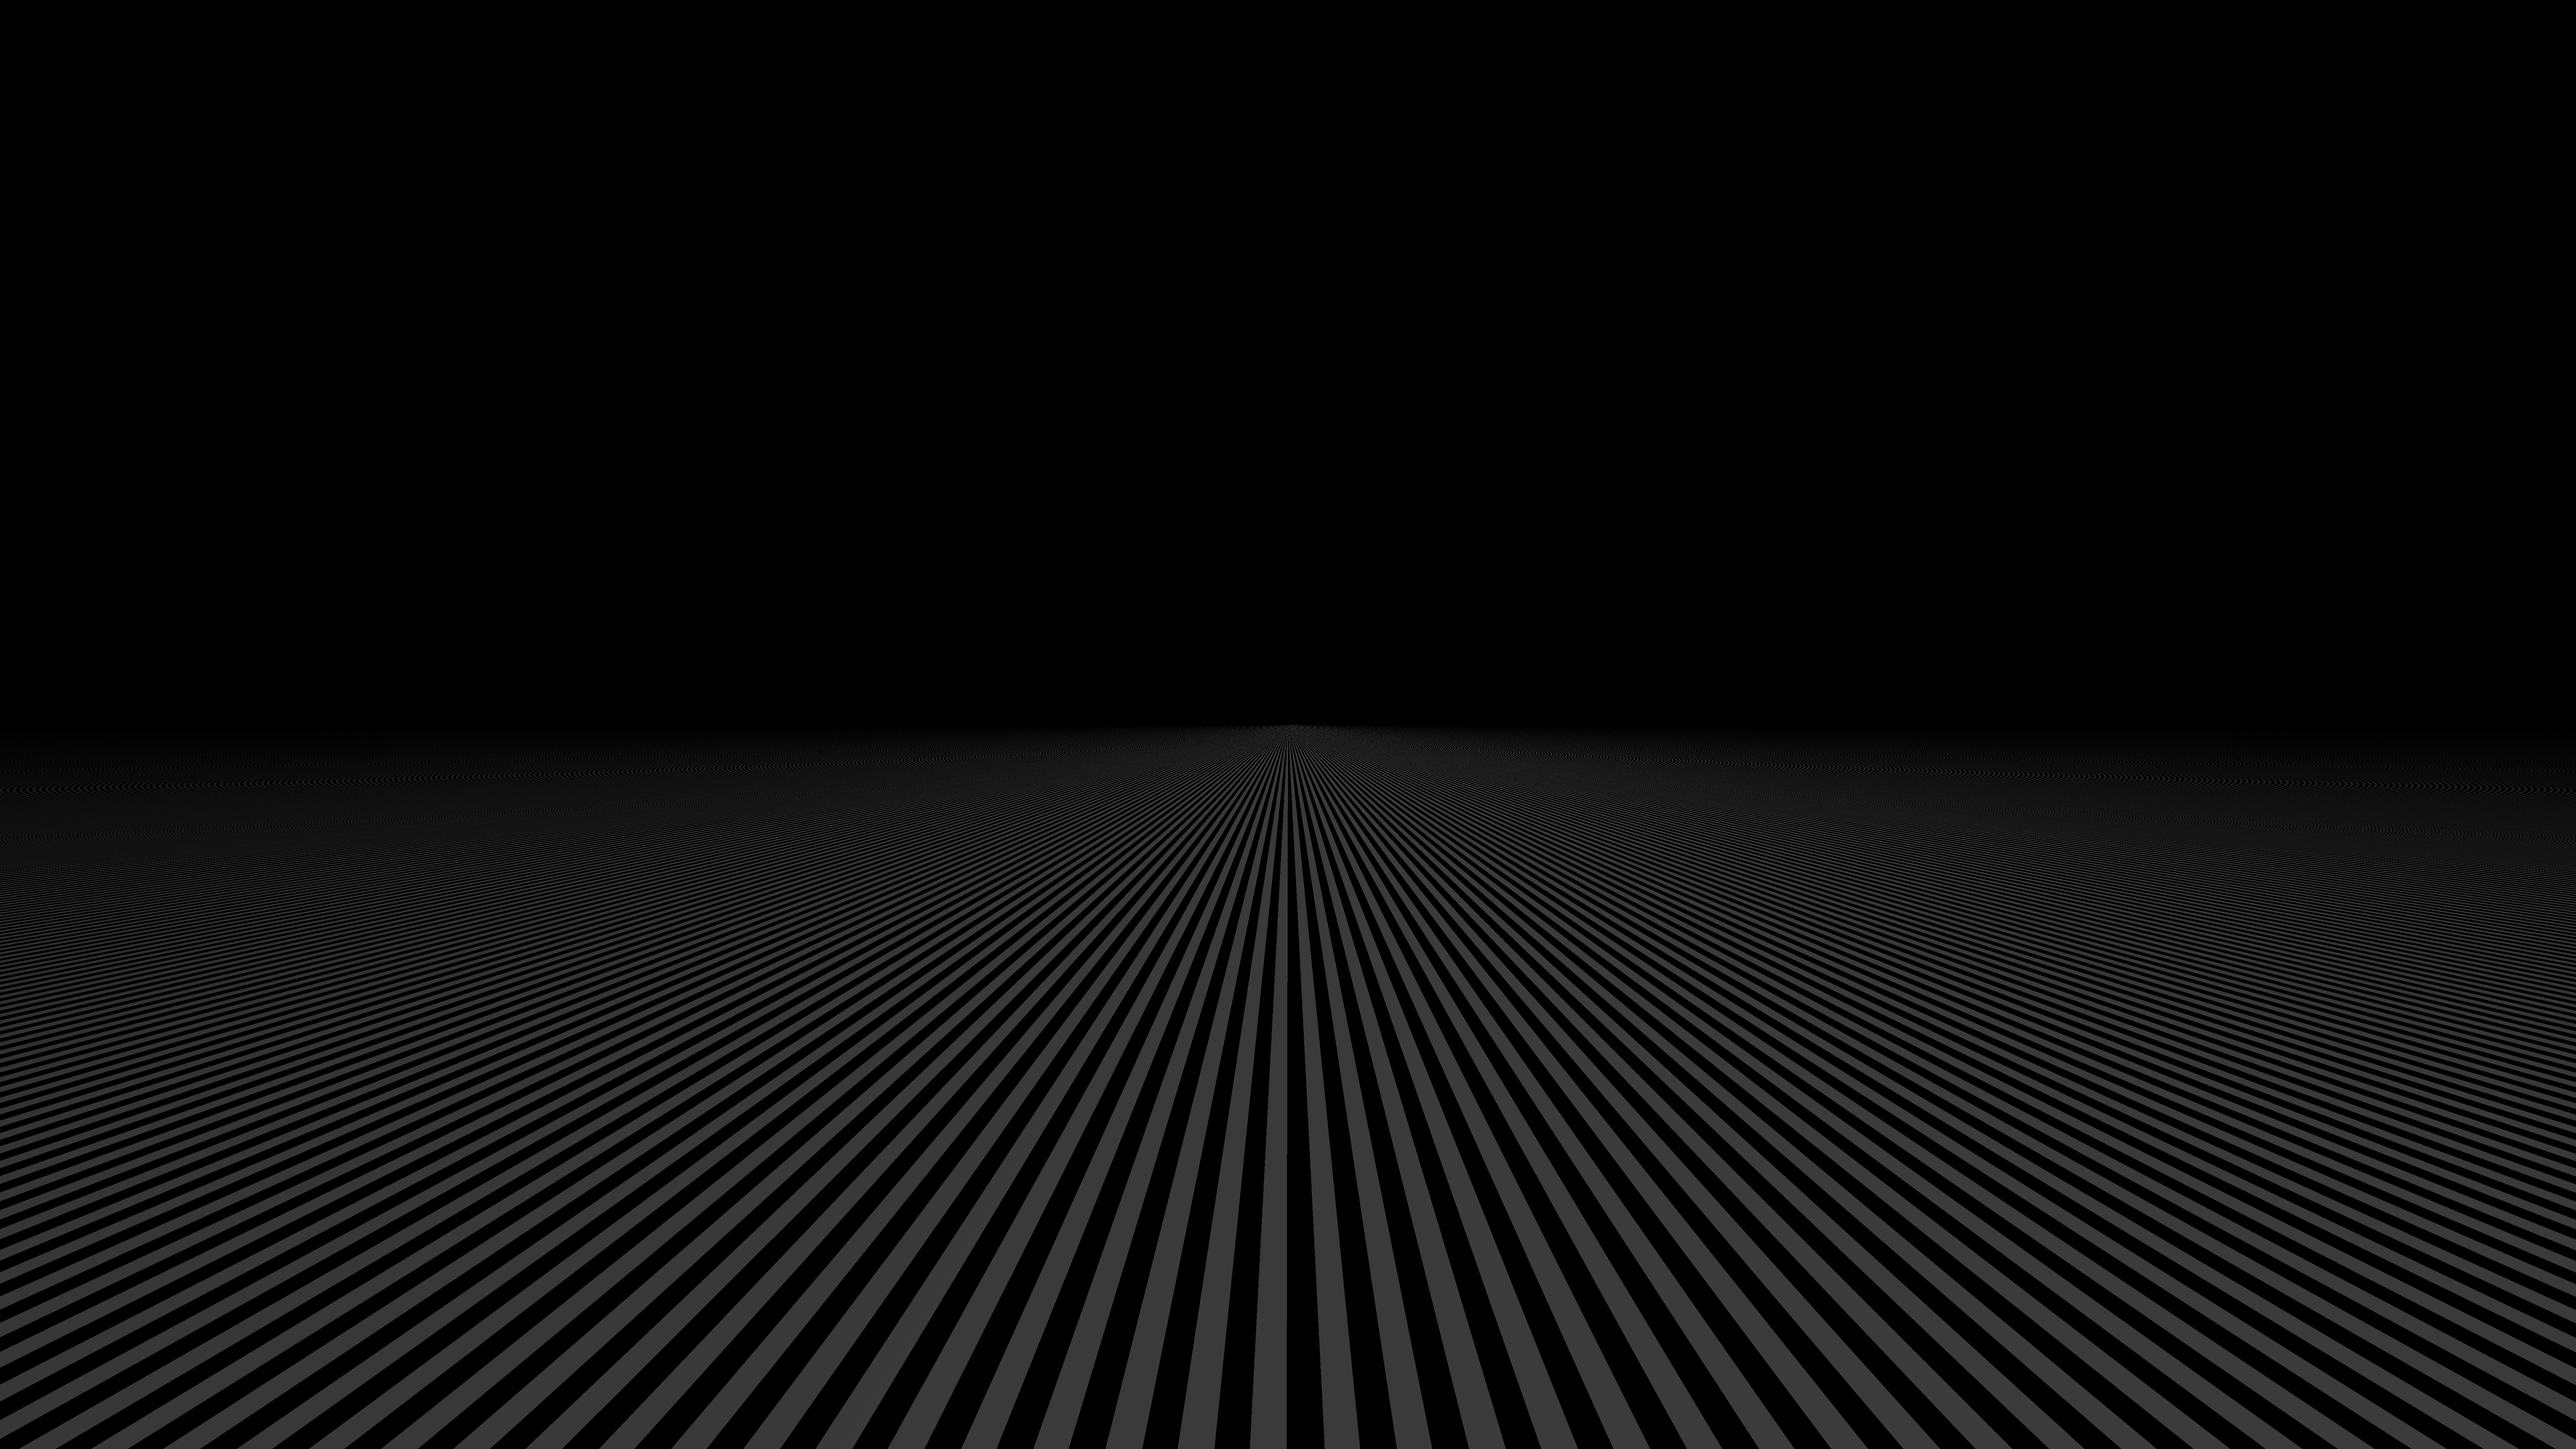
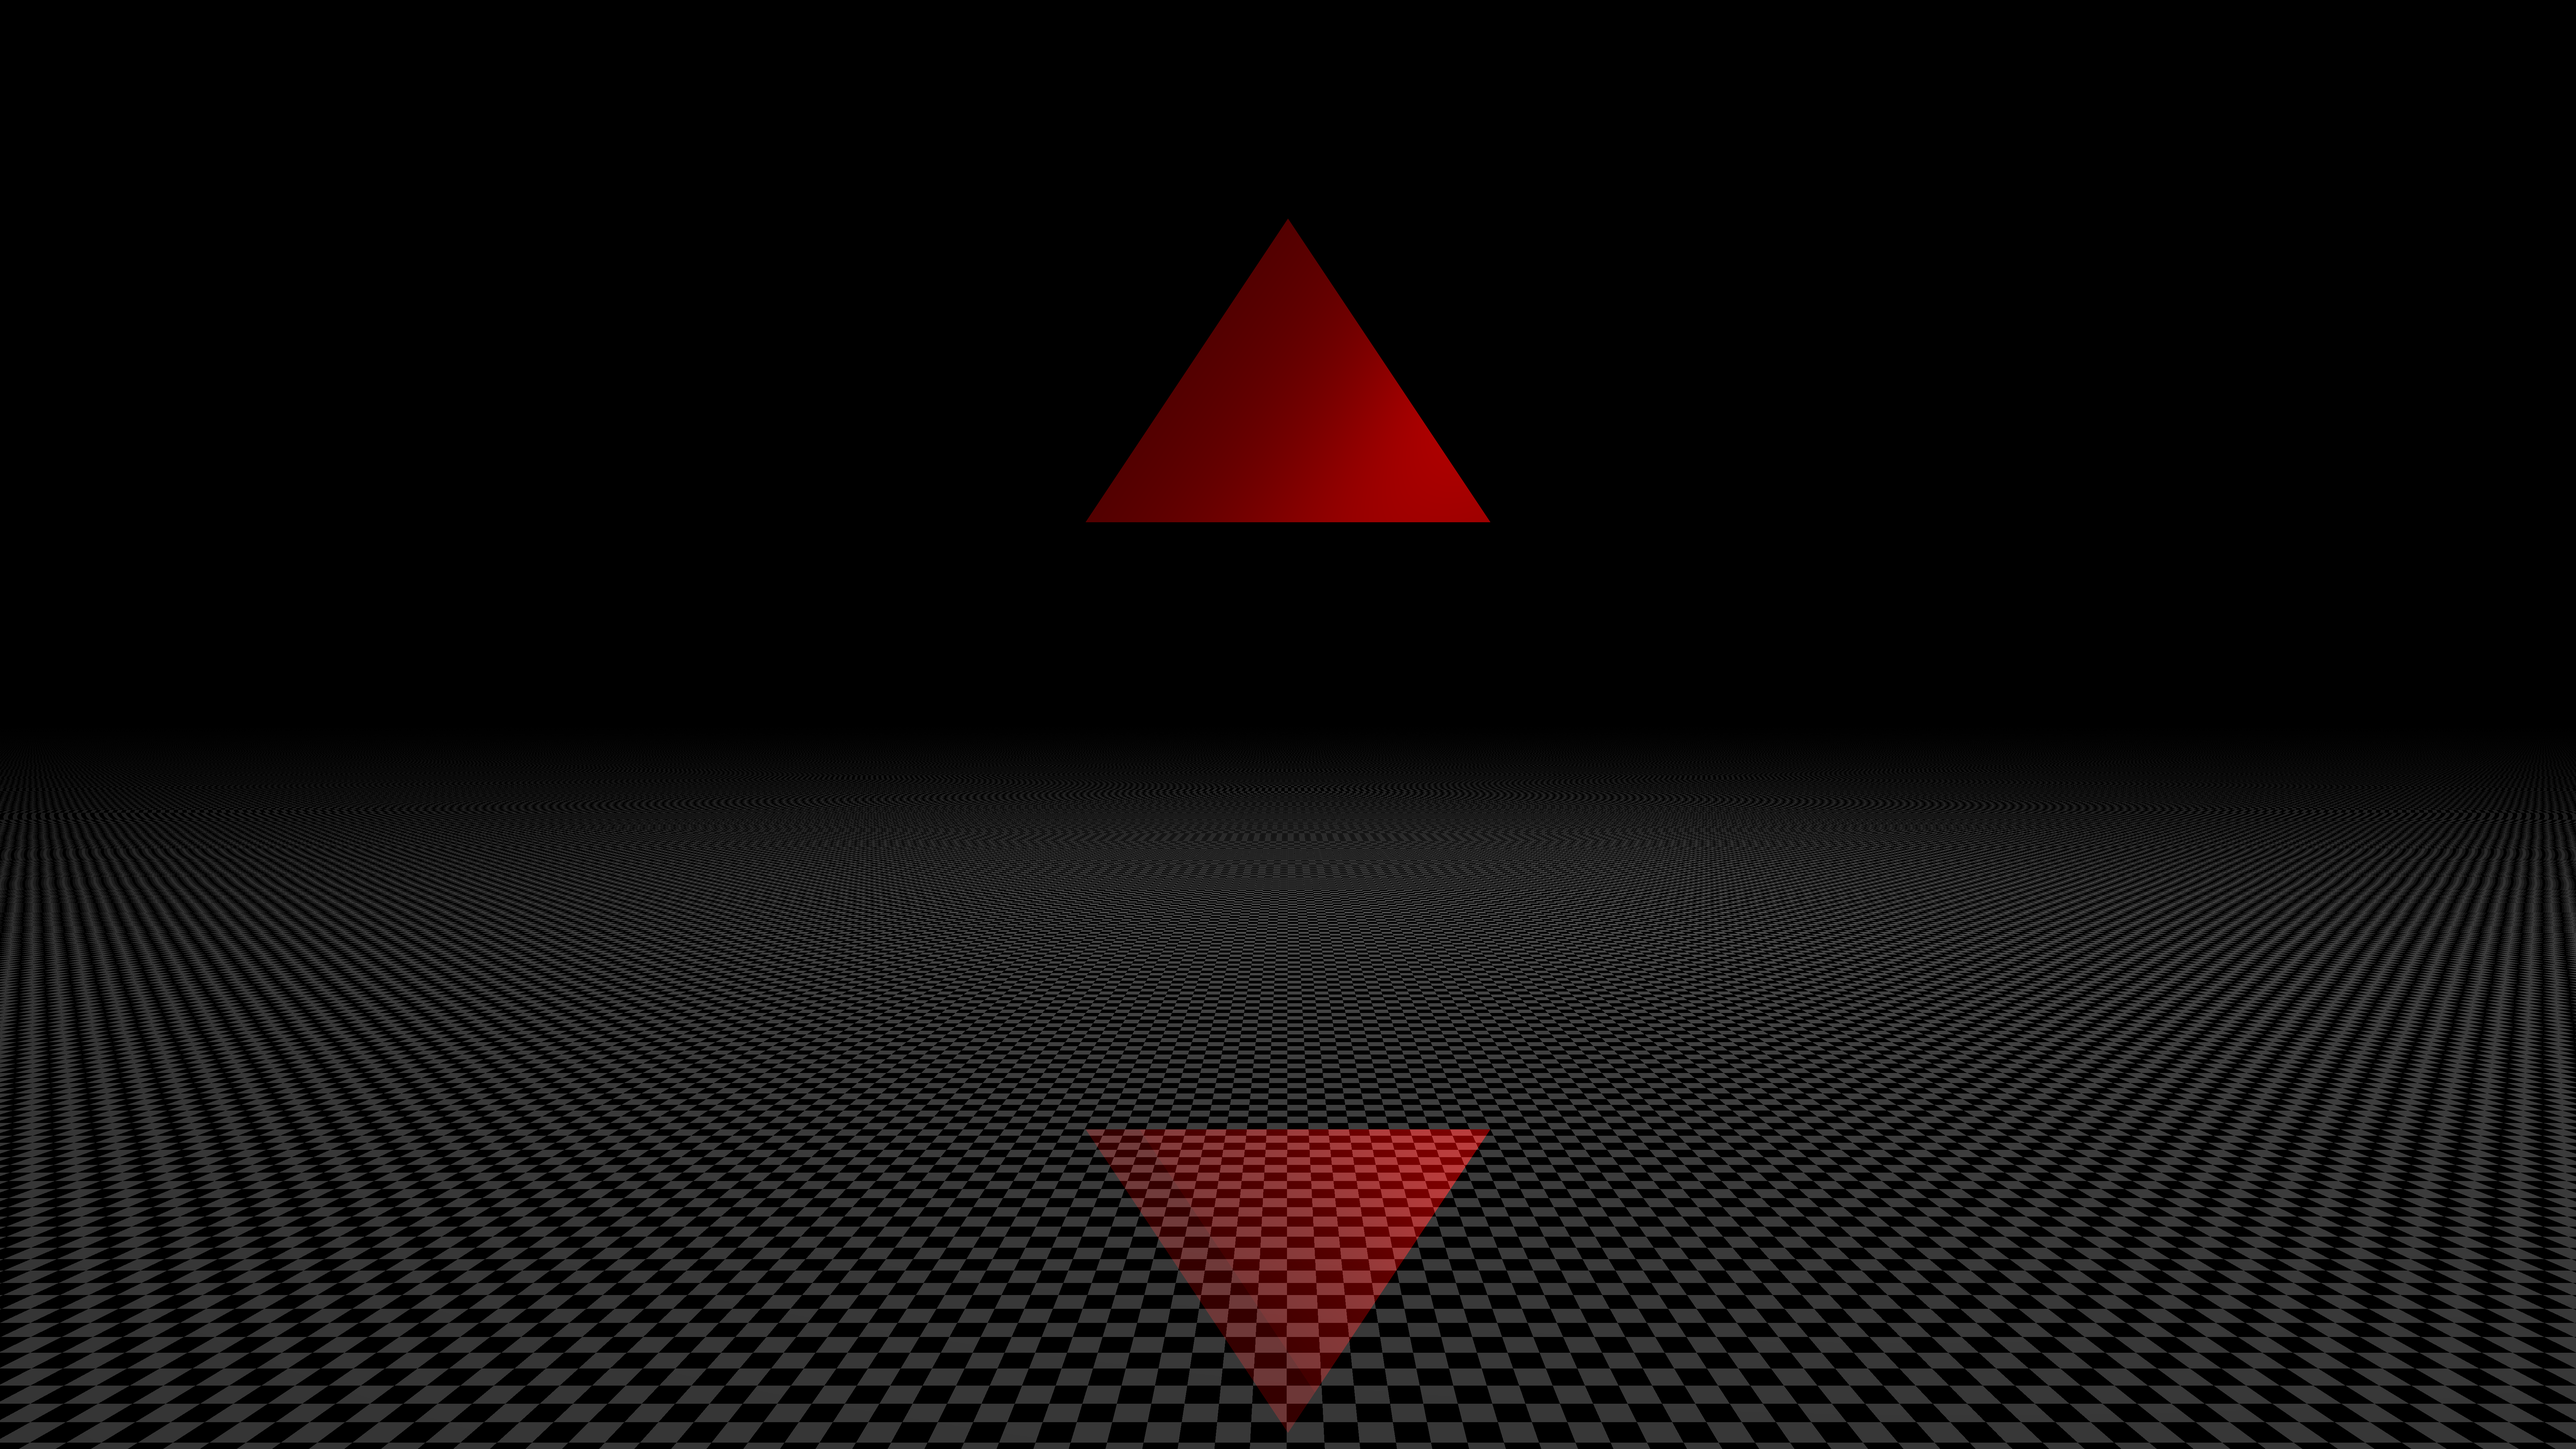
feat: triangle rendering (WIP)

Changed region(s): [[0.0, 0.5, 1.0, 1.0], [0.4062, 0.1562, 0.5938, 0.375]]

diff --git a/src/shape.rs b/src/shape.rs
@@ -6,7 +6,7 @@
 /*   By: nmartins <nmartins@student.codam.nl>         +#+                     */
 /*                                                   +#+                      */
 /*   Created: 2019/07/19 18:17:32 by nmartins       #+#    #+#                */
-/*   Updated: 2019/07/21 22:42:40 by nmartins      ########   odam.nl         */
+/*   Updated: 2019/07/24 20:52:25 by nmartins      ########   odam.nl         */
 /*                                                                            */
 /* ************************************************************************** */
 
@@ -119,6 +119,12 @@ impl Vec3 {
 
 	pub fn clamp_as_color(&self) -> Self {
 		self.clamp_to(Vec3::ORIGIN, Vec3::new(255.0, 255.0, 255.0))
+	}
+
+	pub fn cross_product(&self, other: &Vec3) -> Vec3 {
+		Vec3::new(self.y * other.z - self.z * other.y,
+			self.z * other.x - self.x * other.z,
+			self.x * other.y - self.y * other.x)
 	}
 }
 
@@ -309,5 +315,56 @@ impl Intersectable for Plane {
 				text_pos,
 			})
 		}
+	}
+}
+
+pub struct Triangle {
+	pub a: Vec3,
+	pub b: Vec3,
+	pub c: Vec3,
+
+	pub material: Material,
+}
+
+impl Intersectable for Triangle {
+	fn mat(&self) -> &Material {
+		&self.material
+	}
+
+	fn do_intersect(&self, ray: &Ray) -> Option<Intersection> {
+		let ab = self.b - self.a;
+		let ac = self.c - self.a;
+
+		let pvec = ray.direction.cross_product(&ac);
+		let det = ab.dot(&pvec);
+
+		let t = pvec.dot(&self.a);
+		let p = ray.origin + ray.direction * t;
+		// Culling
+		// if det < std::f64::EPSILON {
+			// return None;
+		// }
+		if det.abs() < std::f64::EPSILON {
+			return None;
+		}
+		let inv_det = 1.0 / det;
+		let tvec = ray.origin - self.a;
+		let u = tvec.dot(&pvec) * inv_det;
+		if u < 0.0 || u > 1.0 {
+			return None;
+		}
+		let qvec = tvec.cross_product(&ab);
+		let v = ray.direction.dot(&qvec) * inv_det;
+		if v < 0.0 || u + v > 1.0 {
+			return None;
+		}
+		let t = ac.dot(&qvec) * inv_det;
+
+		Some(Intersection {
+			origin: p,
+			t,
+			normal: pvec.normalized(),
+			text_pos: Vec2::new(0.0, 0.0),
+		})
 	}
 }

diff --git a/src/main.rs b/src/main.rs
@@ -6,7 +6,7 @@
 /*   By: nmartins <nmartins@student.codam.nl>         +#+                     */
 /*                                                   +#+                      */
 /*   Created: 2019/07/19 18:06:37 by nmartins       #+#    #+#                */
-/*   Updated: 2019/07/21 22:48:54 by nmartins      ########   odam.nl         */
+/*   Updated: 2019/07/24 20:57:51 by nmartins      ########   odam.nl         */
 /*                                                                            */
 /* ************************************************************************** */
 
@@ -26,7 +26,7 @@ pub const SCREEN_HEIGHT: f64 = 720.0;
 use camera::PerspectiveCamera;
 use lightsource::PointLight;
 use material::{MatTex, Material};
-use shape::{Plane, Sphere, Vec3};
+use shape::{Plane, Sphere, Triangle, Vec3};
 
 #[allow(unused_imports)]
 use sdl2::event::Event;
@@ -62,6 +62,12 @@ pub fn main() -> std::result::Result<(), String> {
 					texture: MatTex::load_from_file("earth.png")
 						.map_err(|_| "Error loading earth image")?,
 				},
+			}),
+			Box::new(Triangle {
+				a: Vec3::new(-2.0, 2.0, 10.0),
+				b: Vec3::new(2.0, 2.0, 10.0),
+				c: Vec3::new(0.0, 5.0, 10.0),
+				material: Material::diffuse(MatTex::Color(Vec3::new(255.0, 0.0, 0.0)))
 			}),
 			// Box::new(Sphere {
 			// 	origin: Vec3::new(1.0, 0.5, 3.0),
